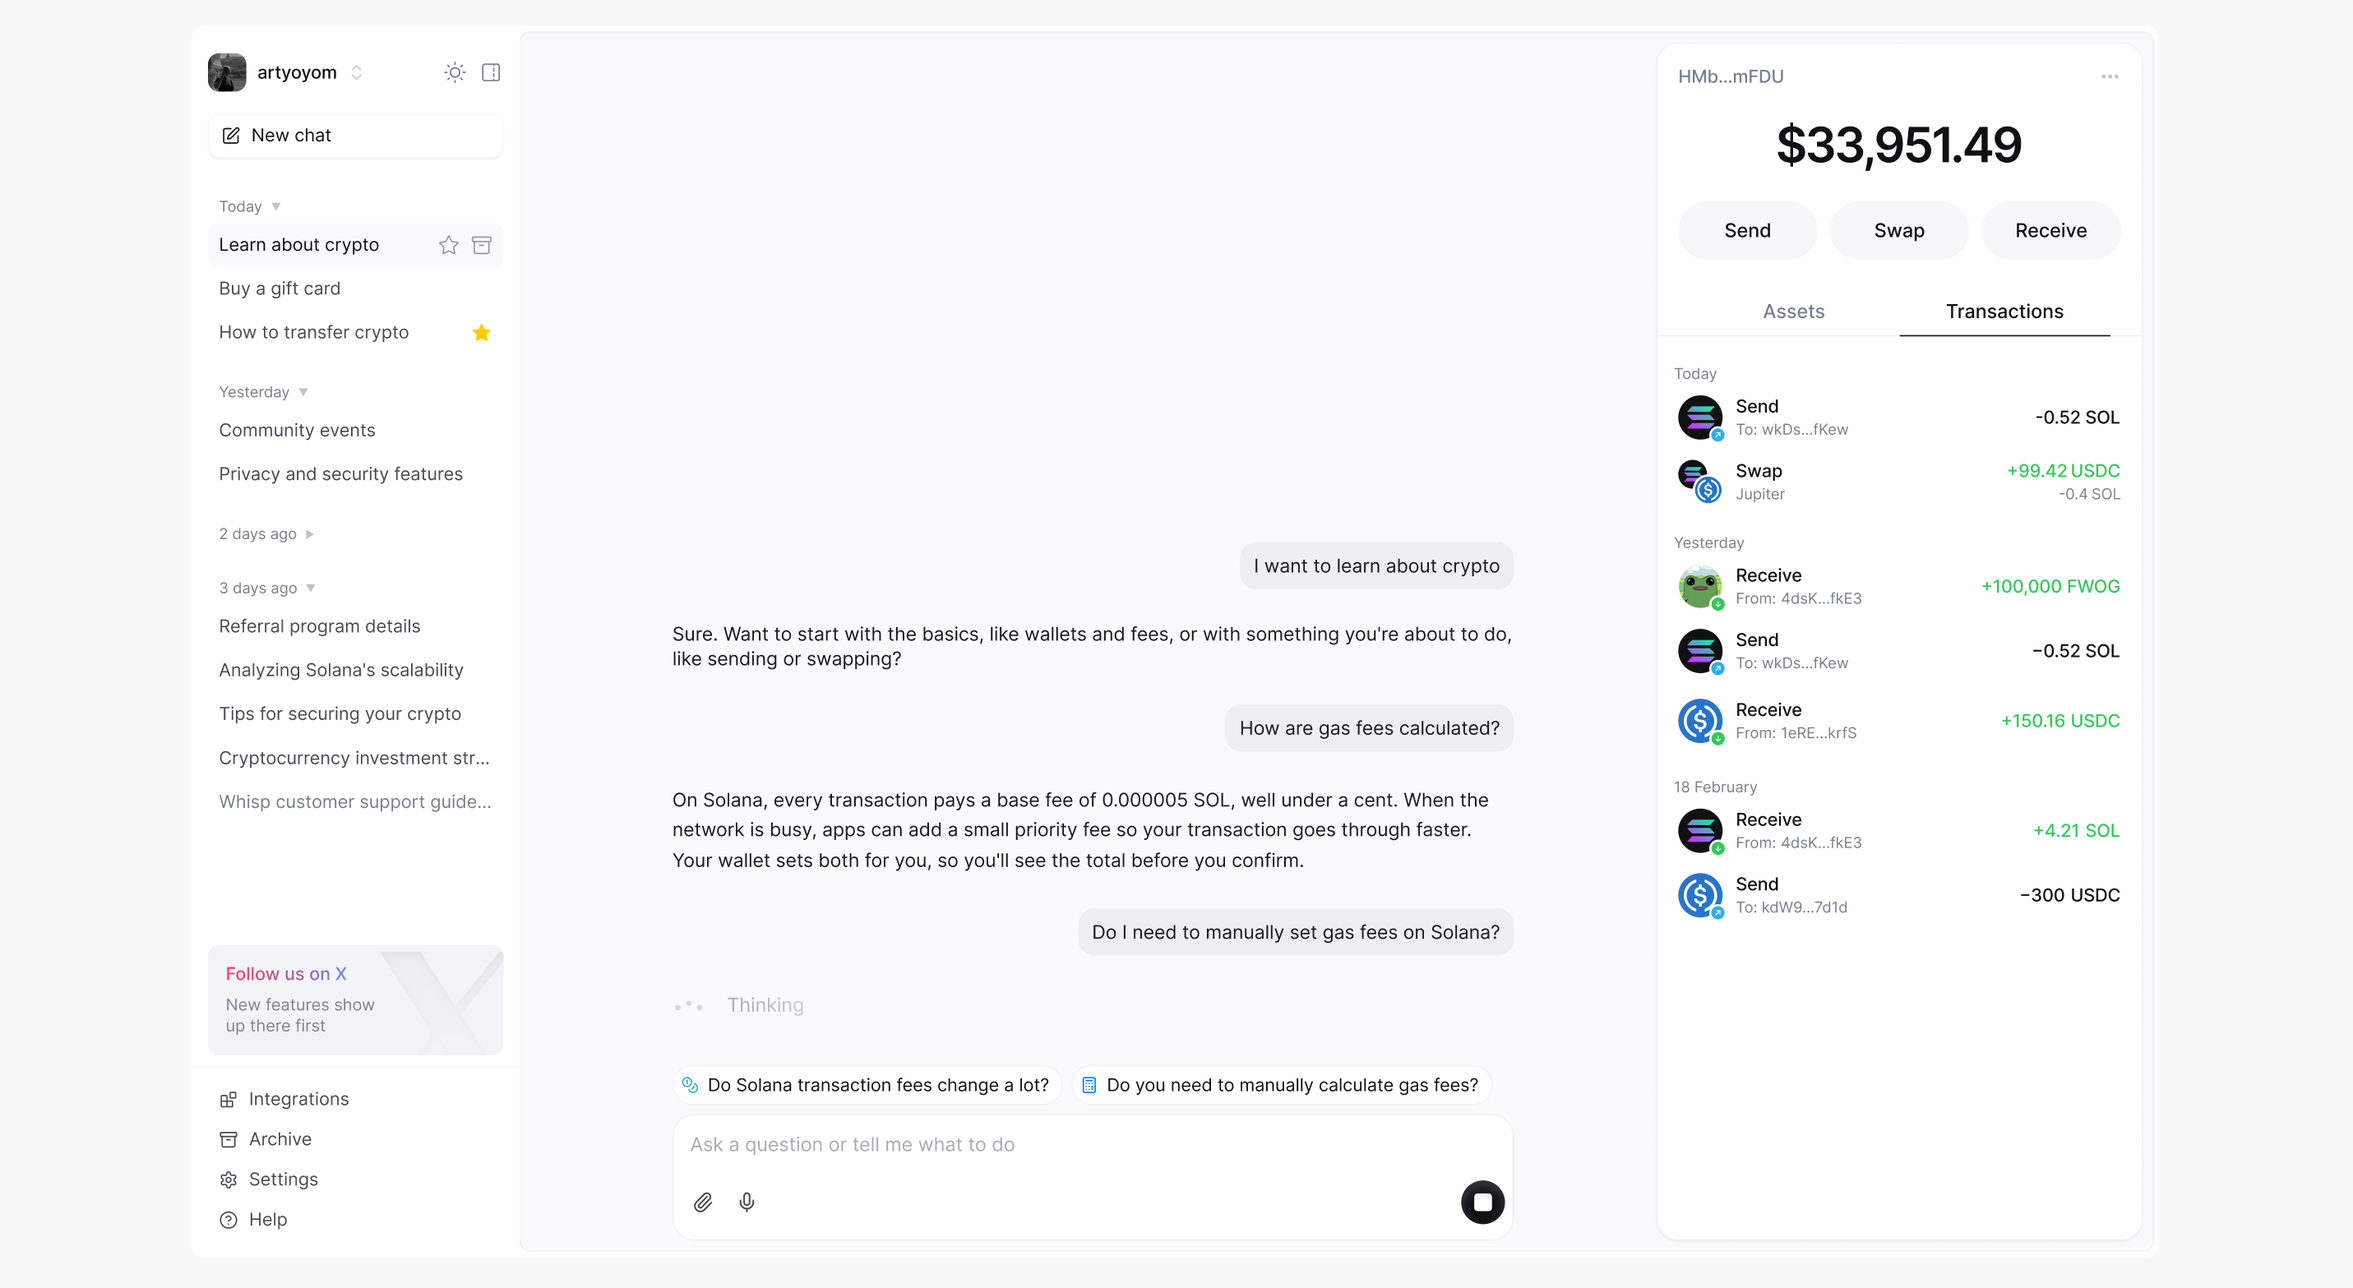
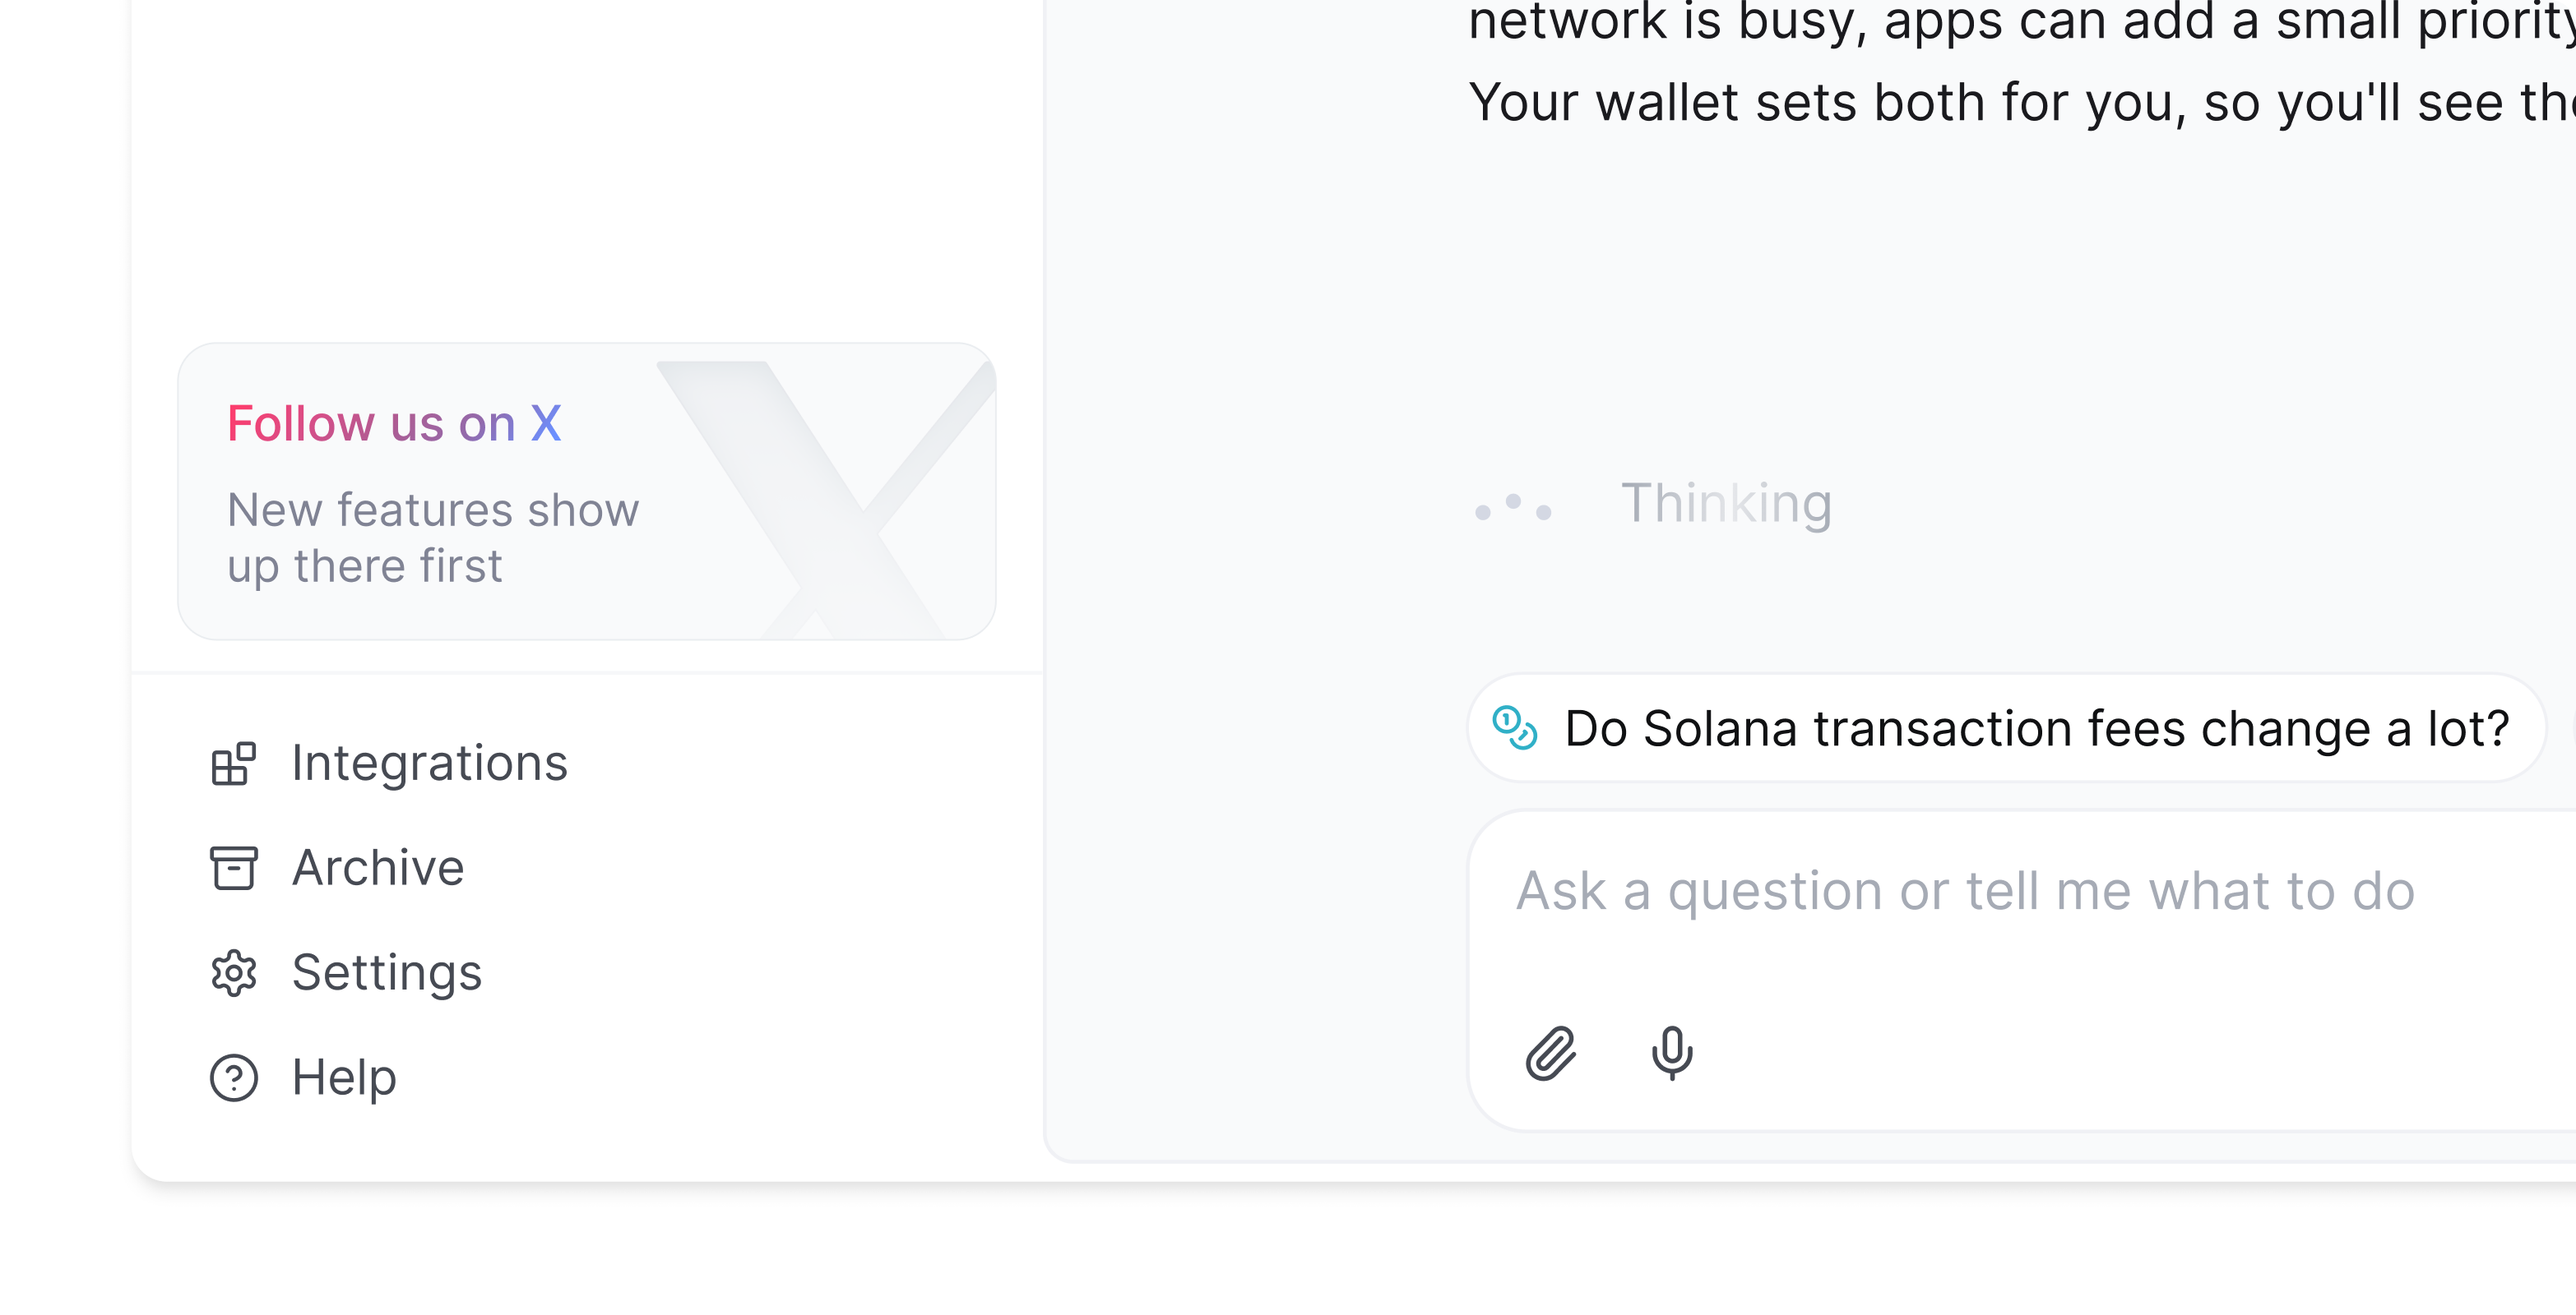
Replace the Whisp concept with a tile-sized export (3132×1600)

diff --git a/src/data/craft-bento.ts b/src/data/craft-bento.ts
@@ -62,7 +62,7 @@ export const craftBento: CraftBentoSettings = {
     [tile("1 · left", "mesh-card-demo", 709), tile("1 · right", "steamify-case-2", 555)],
     [tile("2 · left", "telegram-quick-stickers", 546), tile("2 · right", "concept-tov", 718)],
     [
-      tile("3 · left", "concept-whisp", 783, { position: "left top" }),
+      tile("3 · left", "concept-whisp", 783),
       tile("3 · right", "glow-hover-effect", 481),
     ],
   ],
